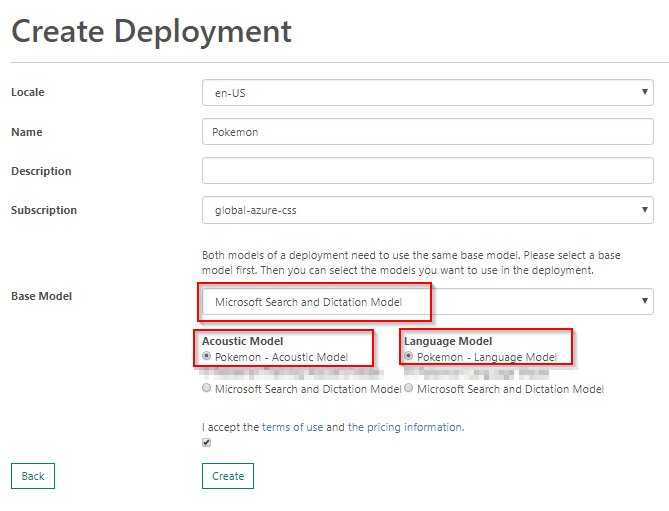
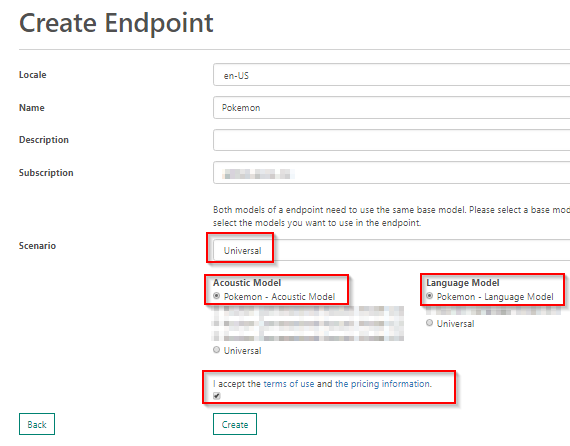
updates

diff --git a/index.html b/index.html
@@ -954,19 +954,19 @@ get really mad pikachu
     <b>Exercise</b>: Deploying customized acoustic and language models
 </h4>
 
-<p>Start by navigating to the STT web portal at <a href="https://cris.ai" target="_blank">https://cris.ai</a>, and navigate to <em>Deployments</em>. </p>
-<p>Click the <em>Create New</em> button to create a new deployment.</p>
+<p>Start by navigating to the STT web portal at <a href="https://cris.ai" target="_blank">https://cris.ai</a>, and navigate to <em>Endpoints</em>. </p>
+<p>Click the <em>Create New</em> button to create a new endpoint.</p>
 <p>Complete the following fields:</p>
 <ul>
 <li>Locale: en-US</li>
 <li>Description: <em>blank</em></li>
 <li>Name: Pokemon</li>
 <li>Subscription: <em>the one you created earlier</em></li>
-<li>Base Model: Microsoft Search and Diction Model, then select the Pokemon models below</li>
+<li>Scenario: Universal, then select the Pokemon models below</li>
 </ul>
 <p><img src="images/chapter5/deploy1.png" class="img-override" /></p>
 <p>Click <em>Create</em> to deploy the models to production.</p>
-<p>When the test run is saved, you&#39;ll navigate back to the <em>Deployments</em> page:</p>
+<p>When the endpoint is saved, you&#39;ll navigate back to the <em>Endpoints</em> page:</p>
 <p><img src="images/chapter5/deploy2.png" class="img-override" /></p>
 <p>Note the <em>Status</em> of the test run is <em>NotStarted</em>. In a few moments, it will change to <em>Running</em>, then <em>Succeeded</em>.</p>
 <p>The deployment will not take long (up to 1 minute). That&#39;s it! You&#39;ve deployed your models.</p>
@@ -975,48 +975,42 @@ get really mad pikachu
 
 <h3 id="exploring-the-speech-to-text-service-endpoint">Exploring the Speech to Text Service Endpoint</h3>
 <p>Now that you&#39;ve deployed a customized STT endpoint, you can consume it in an application. But how?</p>
-<p>Let&#39;s take a closer look at your deployment.</p>
+<p>Let&#39;s take a closer look at your endpoint.</p>
 <h4 class="exercise-start">
-    <b>Exercise</b>: Exploring a STT endpoint deployment
+    <b>Exercise</b>: Exploring a STT endpoint
 </h4>
 
-<p>Start by navigating to the STT web portal at <a href="https://cris.ai" target="_blank">https://cris.ai</a>, and navigate to <em>Deployments</em>. </p>
-<p>Click the <em>Details</em> link next to your <em>Pokemon</em> deployment:</p>
+<p>Start by navigating to the STT web portal at <a href="https://cris.ai" target="_blank">https://cris.ai</a>, and navigate to <em>Endpoints</em>. </p>
+<p>Click the <em>Details</em> link next to your <em>Pokemon</em> endpoint:</p>
 <p><img src="images/chapter5/deploy3.png" class="img-override" /></p>
-<p>The deployment details page shows you a variety of details about your deployment. Scroll down to the <em>Endpoints</em> area:</p>
+<p>The deployment details page shows you a variety of details about your endpoint. Scroll down to the <em>Endpoints</em> area:</p>
 <p><img src="images/chapter5/deploy4.png" class="img-override" /></p>
 <p>The endpoints area shows a variety of URIs that you can use to access your customized deployment. You can interact with the STT via a:</p>
 <ul>
 <li>HTTP REST API</li>
-<li>WebSockets, using a .NET/Android/iOS client library</li>
-<li>WebSockets, using a .NET service library</li>
 <li>WebSockets with support for the Speech Protocol/JavaScript WebSocket API</li>
 </ul>
 <p>You&#39;ll notice that for each option, you have endpoints for short and long-form audio. In some cases, endpoints support punctuation detection.</p>
 <p>Depending on the needs of your application, you may choose a different endpoint. I&#39;ve used each of these previously and think it&#39;s good to walk through each at a high-level.</p>
 <h4 id="http-rest-api">HTTP REST API</h4>
 <p>Use this option when you have a .wav file that you want to upload and get a single response back. You won&#39;t get real-time speech results back, but it works well when you want to do quick, bulk processing of a large collection of audio files. </p>
-<h4 id="websockets-using-a-net-android-ios-client-library">WebSockets, using a .NET/Android/iOS client library</h4>
-<p>If you need real-time processing of audio, when using a microphone that&#39;s embedded in software with a .NET app, Android app, or iOS app, this is the right choice for you. An important designation here is that you need to use this in conjunction with the SDKs/libraries provided by Microsoft. It&#39;s also important to note that these are intended for client-side applications, not a server-side process that will have a long life span. </p>
-<h4 id="websockets-using-a-net-service-library">WebSockets, using a .NET service library</h4>
-<p>When you need a long-running server-side process to interact in real-time with the STT in a .NET app, use these endpoints. You&#39;ll also need to use the .NET SDK built for this purpose.</p>
 <h4 id="websockets-with-support-for-the-speech-protocol-javascript-websocket-api">WebSockets with support for the Speech Protocol/JavaScript WebSocket API</h4>
-<p>The last option is to interact with the STT using a specific protocol called the Speech Protocol. This also has it&#39;s own SDK and API you need to adhere to when using these endpoints. </p>
+<p>The last option is to interact with the STT using a specific protocol called the Speech Protocol. This also has it&#39;s own SDK and API you need to adhere to when using these endpoints. There is a JavaScript and C# version of the SDK.</p>
 <blockquote>
 <p><strong>The Speech Protocol</strong></p>
-<p>I consider the first three options a legacy way of interacting with the STT. The 4th option (Speech Protocol) is the new and recommended way of interfacing with the STT. Eventually the first 3 options will be deprecated and the Speech Protocol will be <em>the</em> way to interact. </p>
-<p>Right now, support for the new Speech Protocol is limited to a JavaScript SDK, but if you need a C# version, you can roll your own. To learn more about the protocol, check out the official <a href="https://docs.microsoft.com/en-us/azure/cognitive-services/speech/api-reference-rest/websocketprotocol">protocol documentation</a>.</p>
+<p>The Speech Protocol is the recommended way of interfacing with the STT. </p>
+<p>Support for the Speech Protocol is limited to a JavaScript and C# SDK. To learn more about the protocol, check out the official <a href="https://docs.microsoft.com/en-us/azure/cognitive-services/speech/api-reference-rest/websocketprotocol">protocol documentation</a>. If you need an alternate implementation, the documentation for the Speech Protocol explains how it works, so you can roll your own.</p>
 </blockquote>
 <blockquote>
 <p><strong>Rolling your Own Speech Protocol Client</strong></p>
-<p>Don&#39;t do this, and I speak from experience. I&#39;ve done it. It&#39;s not easy, the documentation isn&#39;t great, and unless you have a lot of experience writing web socket protocol code in C#, this can be really time consuming and difficult. I lost a month of my life to this. The end result was pretty cool. I didn&#39;t have an option of waiting for Microsoft&#39;s team to implement the C# SDK, but you probably will. </p>
+<p>Don&#39;t do this, and I speak from experience. I&#39;ve done it. It&#39;s not easy, the documentation isn&#39;t great, and unless you have a lot of experience writing asynchronous web socket protocol code in C#, this can be really time consuming and difficult. I lost a month of my life to this. The end result was pretty cool. I did it because the C# SDK wasn&#39;t available yet, and I didn&#39;t have an option of waiting for Microsoft&#39;s team to implement it. </p>
 </blockquote>
 <h4 id="subscription-key-and-endpoint-url">Subscription Key and Endpoint URL</h4>
 <p>Ok, sorry for the tangent. Let&#39;s get back to the deployment. You&#39;ll need to keep track of a few pieces of data:</p>
 <p><img src="images/chapter5/deploy4.png" class="img-override" /></p>
-<p>First, take note of the <em>Subscription Key</em> at the top. Second, you&#39;ll need the web socket protocol base URL from the <em>WebSocket with the Speech Protocol/JavaScript WebSocket API</em> (wss://610e08d3ae4b4d4eb7d45dcf2e877698.api.cris.ai) for my deployment. </p>
+<p>First, take note of the <em>Subscription Key</em> at the top. Second, you&#39;ll need the web socket protocol URL from the <em>WebSocket with the Speech Protocol/JavaScript WebSocket API</em> (wss://westus.stt.speech.microsoft.com/speech/recognition/dictation/cognitiveservices/v1?cid=fd366d47-aac1-4972-ad7a-2fce21cb5fc1) for my deployment. </p>
 <blockquote>
-<p><strong>Don&#39;t Use MY Endpoint Base URL</strong></p>
+<p><strong>Don&#39;t Use MY Endpoint URL</strong></p>
 <p>Please don&#39;t copy my endpoint base URL. If you do, you&#39;ll get errors later on. Please copy your own.</p>
 </blockquote>
 <p>With these two values copied/saved, you&#39;re ready to move on to testing the endpoint.</p>
@@ -1040,7 +1034,7 @@ get really mad pikachu
 <p>Ignore the LUIS-related fields, change the <em>Recognition Mode</em> drop down to <em>Dictation</em>, and <em>Format</em> to <em>Detailed Result</em>:</p>
 <p><img src="images/chapter5/deploy6.png" class="img-override" /></p>
 <p>Press the <em>Start</em> button and start speaking. The page may ask to access your microphone, and as you speak, the site will submit your speech to the STT endpoint you created and return incremental speech results in real-time.</p>
-<p>Try speaking the phrase, &quot;Pikachu is a cool pokemon.&quot;:</p>
+<p>Try speaking the phrase, &quot;Pikachu is a cool pokemon.&quot; Remember, use HTTPS when accessing your deployed site. </p>
 <p><img src="images/chapter5/speech.gif" class="img-override" /></p>
 <p>Now, that&#39;s cool! As you speak, you&#39;ll see incremental results returned to you browser and displayed in the <em>Current hypothesis</em> area. Then, when the STT recognizes the end of your utterance, it returns JSON-formatted result:</p>
 <pre><code class="lang-json">{

diff --git a/src/chapters/chapter5.md b/src/chapters/chapter5.md
@@ -24,22 +24,22 @@ You've already done the hard work of building the customized models, so let's us
     <b>Exercise</b>: Deploying customized acoustic and language models
 </h4>
 
-Start by navigating to the STT web portal at <a href="https://cris.ai" target="_blank">https://cris.ai</a>, and navigate to *Deployments*. 
+Start by navigating to the STT web portal at <a href="https://cris.ai" target="_blank">https://cris.ai</a>, and navigate to *Endpoints*. 
 
-Click the *Create New* button to create a new deployment.
+Click the *Create New* button to create a new endpoint.
 
 Complete the following fields:
 - Locale: en-US
 - Description: *blank*
 - Name: Pokemon
 - Subscription: *the one you created earlier*
-- Base Model: Microsoft Search and Diction Model, then select the Pokemon models below
+- Scenario: Universal, then select the Pokemon models below
 
 <img src="images/chapter5/deploy1.png" class="img-override" />
 
 Click *Create* to deploy the models to production.
 
-When the test run is saved, you'll navigate back to the *Deployments* page:
+When the endpoint is saved, you'll navigate back to the *Endpoints* page:
 
 <img src="images/chapter5/deploy2.png" class="img-override" />
 
@@ -55,26 +55,24 @@ This concludes the exercise.
 
 Now that you've deployed a customized STT endpoint, you can consume it in an application. But how?
 
-Let's take a closer look at your deployment.
+Let's take a closer look at your endpoint.
 
 <h4 class="exercise-start">
-    <b>Exercise</b>: Exploring a STT endpoint deployment
+    <b>Exercise</b>: Exploring a STT endpoint
 </h4>
 
-Start by navigating to the STT web portal at <a href="https://cris.ai" target="_blank">https://cris.ai</a>, and navigate to *Deployments*. 
+Start by navigating to the STT web portal at <a href="https://cris.ai" target="_blank">https://cris.ai</a>, and navigate to *Endpoints*. 
 
-Click the *Details* link next to your *Pokemon* deployment:
+Click the *Details* link next to your *Pokemon* endpoint:
 
 <img src="images/chapter5/deploy3.png" class="img-override" />
 
-The deployment details page shows you a variety of details about your deployment. Scroll down to the *Endpoints* area:
+The deployment details page shows you a variety of details about your endpoint. Scroll down to the *Endpoints* area:
 
 <img src="images/chapter5/deploy4.png" class="img-override" />
 
 The endpoints area shows a variety of URIs that you can use to access your customized deployment. You can interact with the STT via a:
 - HTTP REST API
-- WebSockets, using a .NET/Android/iOS client library
-- WebSockets, using a .NET service library
 - WebSockets with support for the Speech Protocol/JavaScript WebSocket API
 
 You'll notice that for each option, you have endpoints for short and long-form audio. In some cases, endpoints support punctuation detection.
@@ -85,27 +83,19 @@ Depending on the needs of your application, you may choose a different endpoint.
 
 Use this option when you have a .wav file that you want to upload and get a single response back. You won't get real-time speech results back, but it works well when you want to do quick, bulk processing of a large collection of audio files. 
 
-#### WebSockets, using a .NET/Android/iOS client library
-
-If you need real-time processing of audio, when using a microphone that's embedded in software with a .NET app, Android app, or iOS app, this is the right choice for you. An important designation here is that you need to use this in conjunction with the SDKs/libraries provided by Microsoft. It's also important to note that these are intended for client-side applications, not a server-side process that will have a long life span. 
-
-#### WebSockets, using a .NET service library
-
-When you need a long-running server-side process to interact in real-time with the STT in a .NET app, use these endpoints. You'll also need to use the .NET SDK built for this purpose.
-
 #### WebSockets with support for the Speech Protocol/JavaScript WebSocket API
 
-The last option is to interact with the STT using a specific protocol called the Speech Protocol. This also has it's own SDK and API you need to adhere to when using these endpoints. 
+The last option is to interact with the STT using a specific protocol called the Speech Protocol. This also has it's own SDK and API you need to adhere to when using these endpoints. There is a JavaScript and C# version of the SDK.
 
 > **The Speech Protocol**
 >
-> I consider the first three options a legacy way of interacting with the STT. The 4th option (Speech Protocol) is the new and recommended way of interfacing with the STT. Eventually the first 3 options will be deprecated and the Speech Protocol will be *the* way to interact. 
+> The Speech Protocol is the recommended way of interfacing with the STT. 
 >
-> Right now, support for the new Speech Protocol is limited to a JavaScript SDK, but if you need a C# version, you can roll your own. To learn more about the protocol, check out the official [protocol documentation](https://docs.microsoft.com/en-us/azure/cognitive-services/speech/api-reference-rest/websocketprotocol).
+> Support for the Speech Protocol is limited to a JavaScript and C# SDK. To learn more about the protocol, check out the official [protocol documentation](https://docs.microsoft.com/en-us/azure/cognitive-services/speech/api-reference-rest/websocketprotocol). If you need an alternate implementation, the documentation for the Speech Protocol explains how it works, so you can roll your own.
 
 > **Rolling your Own Speech Protocol Client**
 >
-> Don't do this, and I speak from experience. I've done it. It's not easy, the documentation isn't great, and unless you have a lot of experience writing web socket protocol code in C#, this can be really time consuming and difficult. I lost a month of my life to this. The end result was pretty cool. I didn't have an option of waiting for Microsoft's team to implement the C# SDK, but you probably will. 
+> Don't do this, and I speak from experience. I've done it. It's not easy, the documentation isn't great, and unless you have a lot of experience writing asynchronous web socket protocol code in C#, this can be really time consuming and difficult. I lost a month of my life to this. The end result was pretty cool. I did it because the C# SDK wasn't available yet, and I didn't have an option of waiting for Microsoft's team to implement it. 
 
 #### Subscription Key and Endpoint URL
 
@@ -113,9 +103,9 @@ Ok, sorry for the tangent. Let's get back to the deployment. You'll need to keep
 
 <img src="images/chapter5/deploy4.png" class="img-override" />
 
-First, take note of the *Subscription Key* at the top. Second, you'll need the web socket protocol base URL from the *WebSocket with the Speech Protocol/JavaScript WebSocket API* (wss://610e08d3ae4b4d4eb7d45dcf2e877698.api.cris.ai) for my deployment. 
+First, take note of the *Subscription Key* at the top. Second, you'll need the web socket protocol URL from the *WebSocket with the Speech Protocol/JavaScript WebSocket API* (wss://westus.stt.speech.microsoft.com/speech/recognition/dictation/cognitiveservices/v1?cid=fd366d47-aac1-4972-ad7a-2fce21cb5fc1) for my deployment. 
 
-> **Don't Use MY Endpoint Base URL**
+> **Don't Use MY Endpoint URL**
 >
 > Please don't copy my endpoint base URL. If you do, you'll get errors later on. Please copy your own.
 
@@ -150,7 +140,7 @@ Ignore the LUIS-related fields, change the *Recognition Mode* drop down to *Dict
 
 Press the *Start* button and start speaking. The page may ask to access your microphone, and as you speak, the site will submit your speech to the STT endpoint you created and return incremental speech results in real-time.
 
-Try speaking the phrase, "Pikachu is a cool pokemon.":
+Try speaking the phrase, "Pikachu is a cool pokemon." Remember, use HTTPS when accessing your deployed site. 
 
 <img src="images/chapter5/speech.gif" class="img-override" />
 
